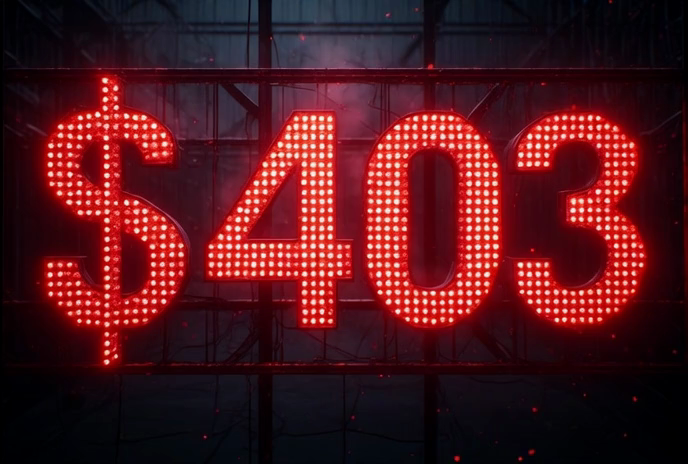
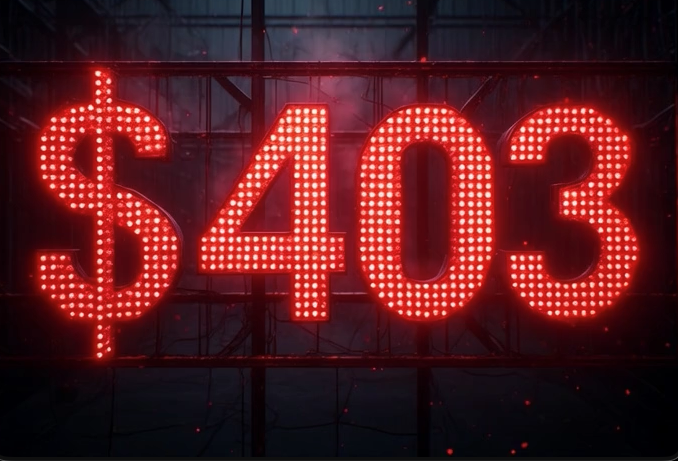
fix: OG image for social sharing — use new $403 LED still image
Remove twitter-image.tsx that was rendering wrong $402 branding.
Add explicit openGraph.images and twitter.images to metadata.

diff --git a/app/layout.tsx b/app/layout.tsx
@@ -39,6 +39,14 @@ export const metadata: Metadata = {
     siteName: "$403 Protocol",
     locale: "en_US",
     type: "website",
+    images: [
+      {
+        url: "https://path403.com/403-OG.png",
+        width: 678,
+        height: 461,
+        alt: "$403 — The Forbidden Path",
+      },
+    ],
   },
   twitter: {
     card: "summary_large_image",
@@ -46,6 +54,7 @@ export const metadata: Metadata = {
     description: "Programmable conditions for the open web. Three DNS records. Three subdomains.",
     creator: "@b0ase",
     site: "@b0ase",
+    images: ["https://path403.com/403-OG.png"],
   },
   robots: {
     index: true,
